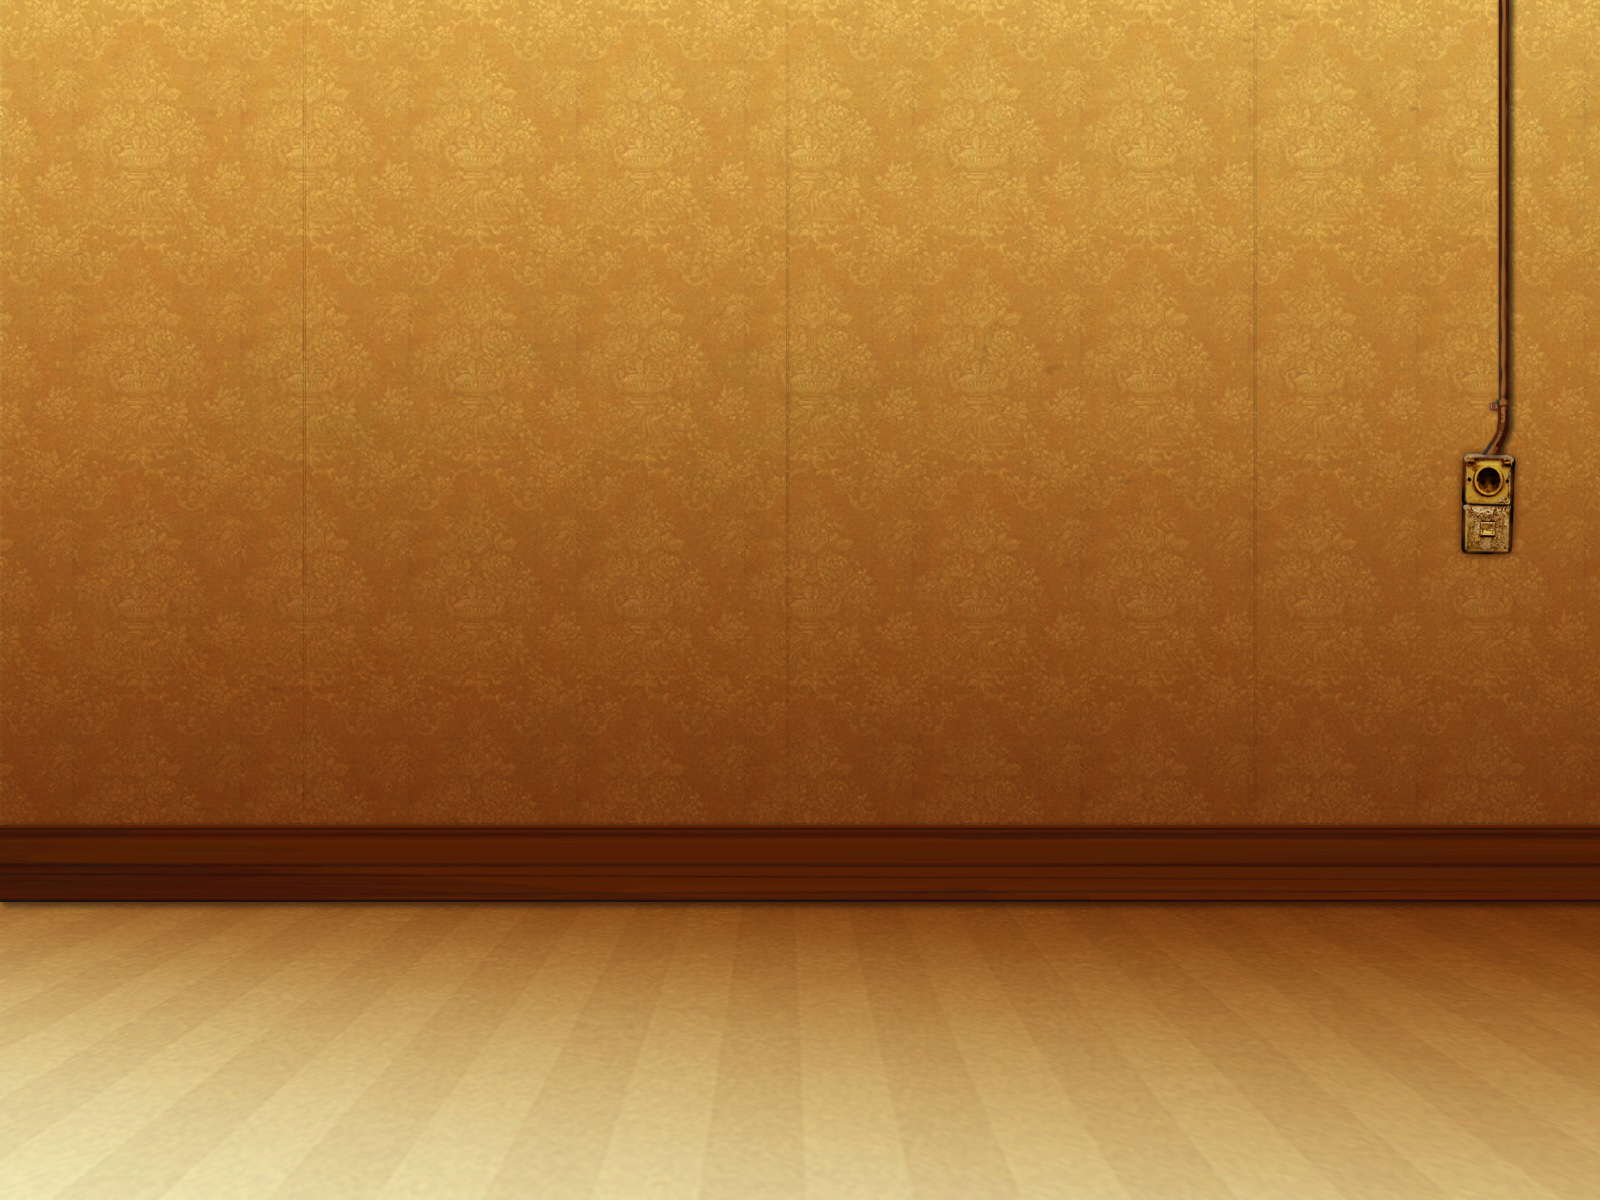
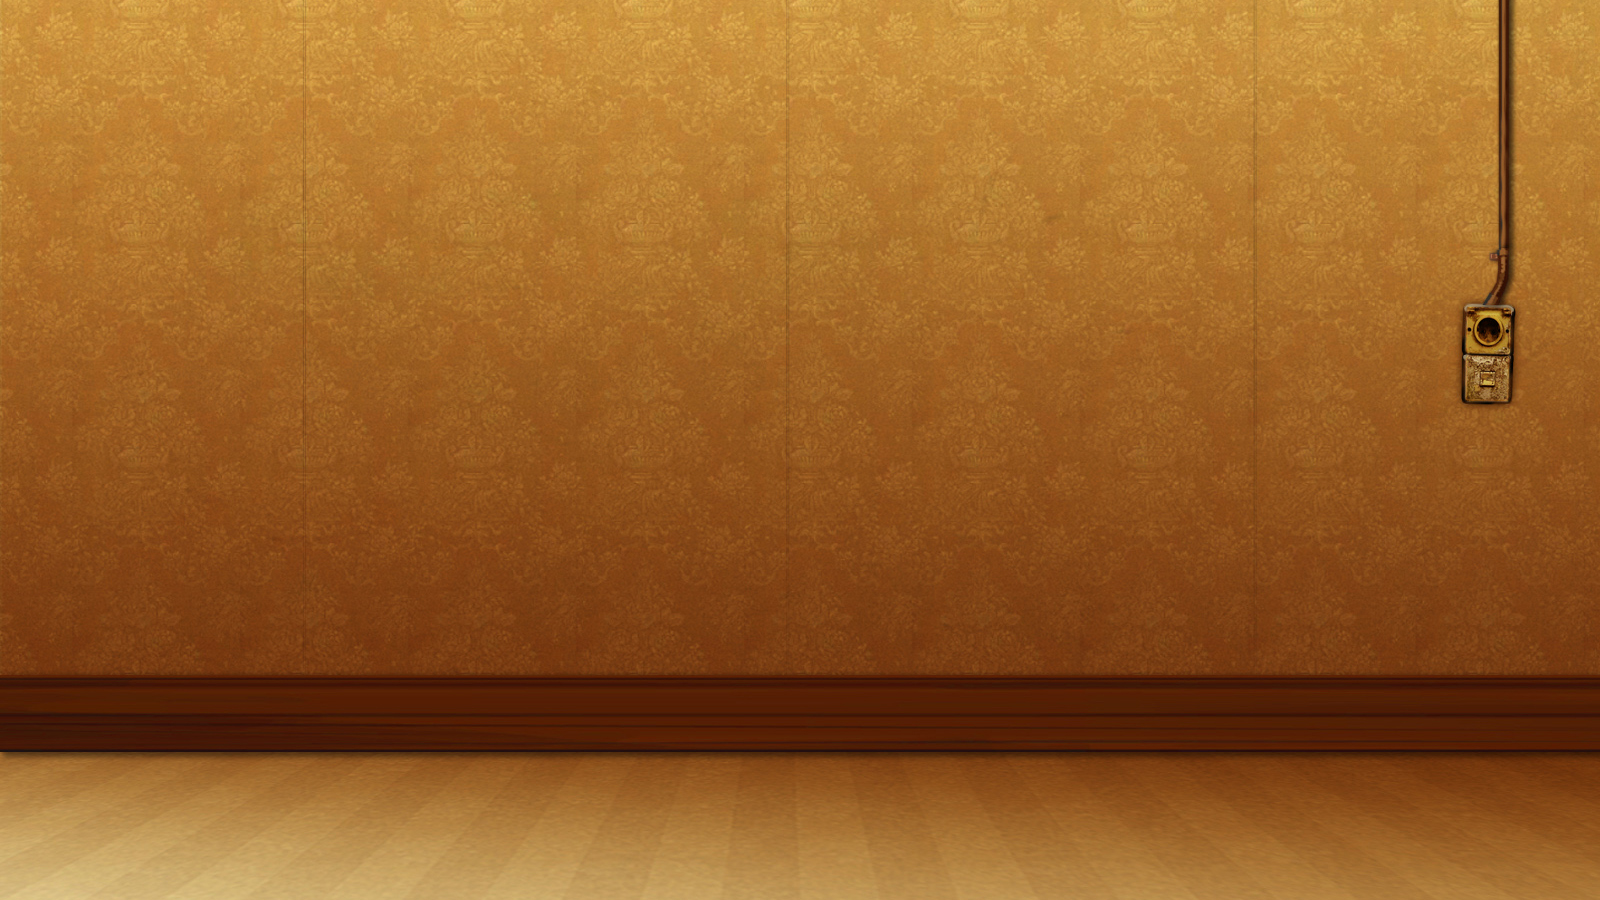
init

diff --git a/position_start.css b/position_start.css
@@ -3,50 +3,44 @@ div {
     outline: 2px dotted yellow;
 }
 */
-
 .rum {
     background-image: url("grafik/room.jpg");
     background-size: cover;
     width: 80vw;
-    height: 60vw;
+    height: 45vw;
     margin: auto;
 }
-
 .bord {
     background-image: url("grafik/bord.png");
     background-repeat: no-repeat;
     background-size: 100%;
-    width: 42vw;
-    height: 35vw;
+    width: 28vw;
+    height: 23vw;
 }
-
 .stol {
     background-image: url("grafik/chair.png");
     background-repeat: no-repeat;
     background-size: 100%;
-    width: 22vw;
-    height: 35vw;
+    width: 16vw;
+    height: 24.6vw;
 }
-
 .skaal {
     background-image: url("grafik/skaal.png");
     background-size: 100%;
-    width: 10vw;
-    height: 4vw;
+    width: 8vw;
+    height: 3.1vw;
 }
-
 .kvinde {
     background-image: url("grafik/kvinde.png");
     background-repeat: no-repeat;
     background-size: 100%;
-    width: 24vw;
-    height: 60vw;
+    width: 16vw;
+    height: 37.8vw;
 }
-
 .mand {
     background-image: url("grafik/mand.png");
     background-repeat: no-repeat;
     background-size: 100%;
-    width: 24vw;
-    height: 60vw;
+    width: 16vw;
+    height: 38.6vw;
 }
